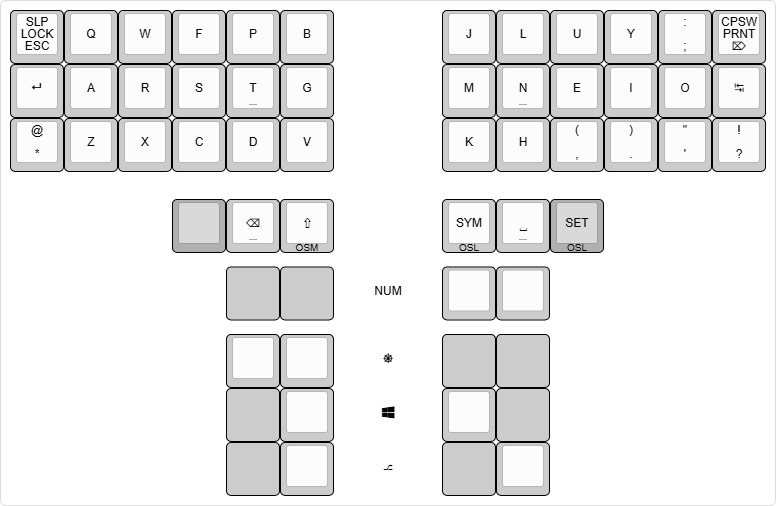
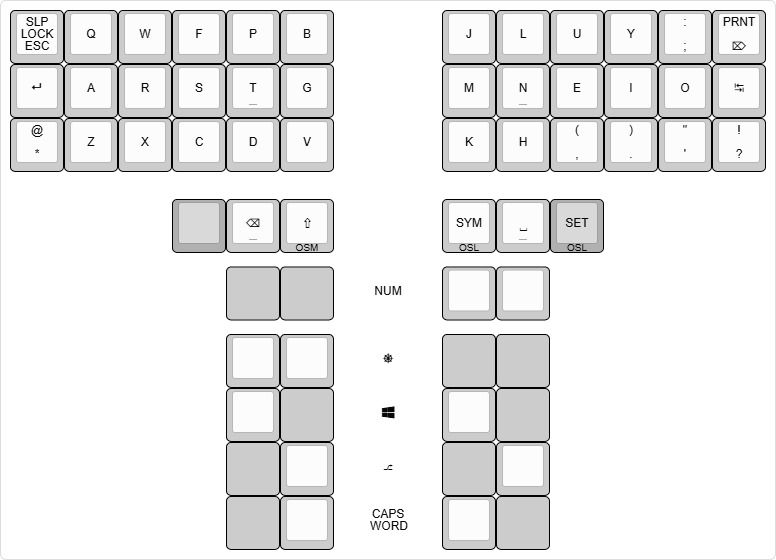
Moved capsword to combos, changed symbols

diff --git a/qmk-lib/osm/README.md b/qmk-lib/osm/README.md
@@ -3,14 +3,16 @@ At the time of writing, QMK one shot modifiers had some weird quirks. My one sho
 
 * I didn't like the locking/timeout behaviour, because I wanted to be fully in control.
   * I did reintroduce the "skip one shot behaviour when held" feature, which comes in handy when using the mouse for example.
-* Ability to press a specific keycode that would clear all active modifiers.
-  * Hold modifiers to actually apply them to the output of the keycode.
+* Ability to press a specific keycode (e.g. Escape) that would clear all active modifiers.
+  * Hold modifiers to send a modified keycode (e.g. CTRL + Esc).
+* Ability to cancel a modifier by triggering it again.
 * Fixed a weird bug that was observed in the native QMK implementation where rolling modifiers could cause one of them to get stuck.
-* This implementation uses "real" modifiers, which are registerd by the operating system as soon as you activate them. (As opposed to QMK "weak" modifiers that are registered virtually and only sent to the system with the next key press.)
+* This implementation uses "real" modifiers, which are registered by the operating system as soon as you activate them. (As opposed to QMK "weak" modifiers that are registered virtually and only sent to the system with the next key press.)
 
 ## How to use
 * Start by adding the `x_osm.c` and `x_osm.h` files to your keymap folder.
 * Add `SRC += x_osm.c` to your `rules.mk` file
+* In `config.h`, add `#define TAPPING_TERM <value>` which indicates the amount of milliseconds after which a key press is considered a hold. The default value is 200, although I've been using 250 myself.
 * In `keymap.c`, make sure to add:
     ```C
     #include "x_osm.h"

diff --git a/docs/keymap.md b/docs/keymap.md
@@ -15,7 +15,7 @@ This didn't feel right for me, because when I decide I want to put something on 
 My keymap contains some custom code. If you want to really understand what's going on or would like to try out some unique features for yourself, check out my [QMK lib folder](/qmk-lib/README.md).
 
 ## Base Layer
-This layer is based on Colemak Mod-DH. Although I got a little creative with the symbols, my favorite being the parentheses instead of angle brackets above the comma and period. The thumb keys are occupied by backspace, one shot shift, symbols layer and space keys. The thumb keys have several combos for the other modifiers and the numbers layer. The top left corner has escape, (using SHIFT) screen lock and (using CTRL) sleep keys. The top right corner has delete, (using SHIFT) printscreen and (using CTRL) capsword keys.
+This layer is based on Colemak Mod-DH. Although I got a little creative with the symbols, my favorite being the parentheses instead of angle brackets above the comma and period. The thumb keys are occupied by backspace, one shot shift, symbols layer and space keys. The thumb keys have several combos for the other modifiers, the numbers layer and caps word functionality. The top left corner has escape, (using SHIFT) screen lock and (using CTRL) sleep keys. The top right corner has delete and (using SHIFT) printscreen keys.
 
 ![Base Layer](assets/keymap/base-layer.jpg)
 
